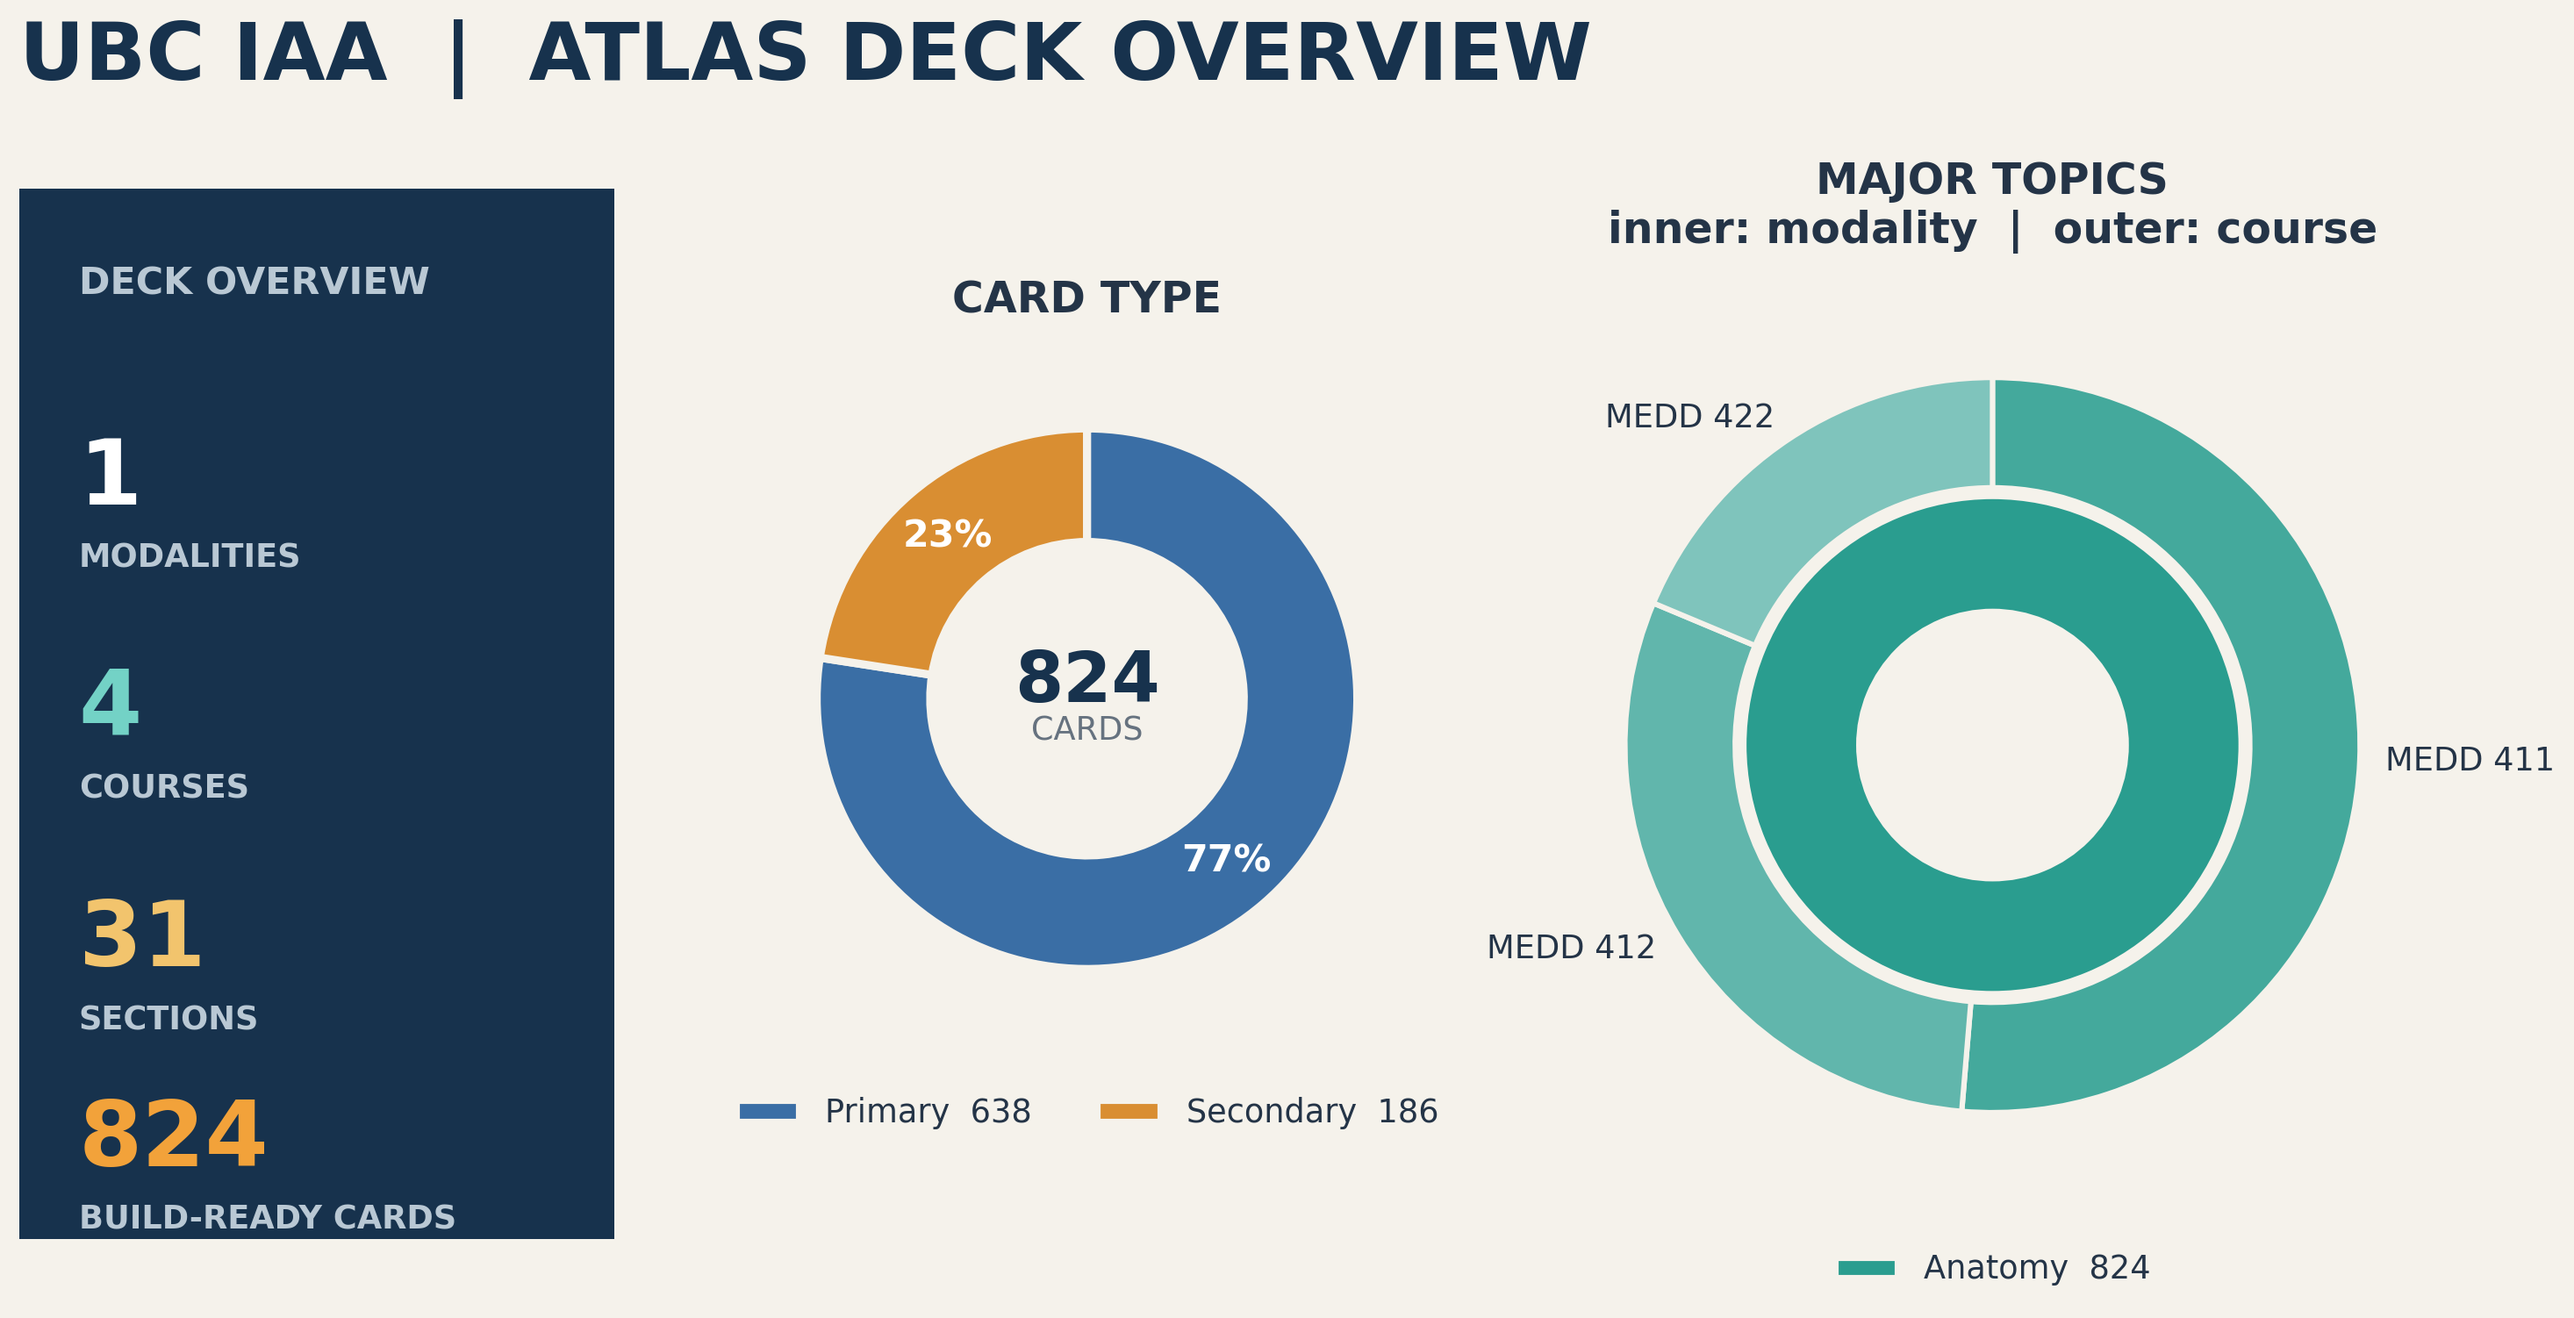
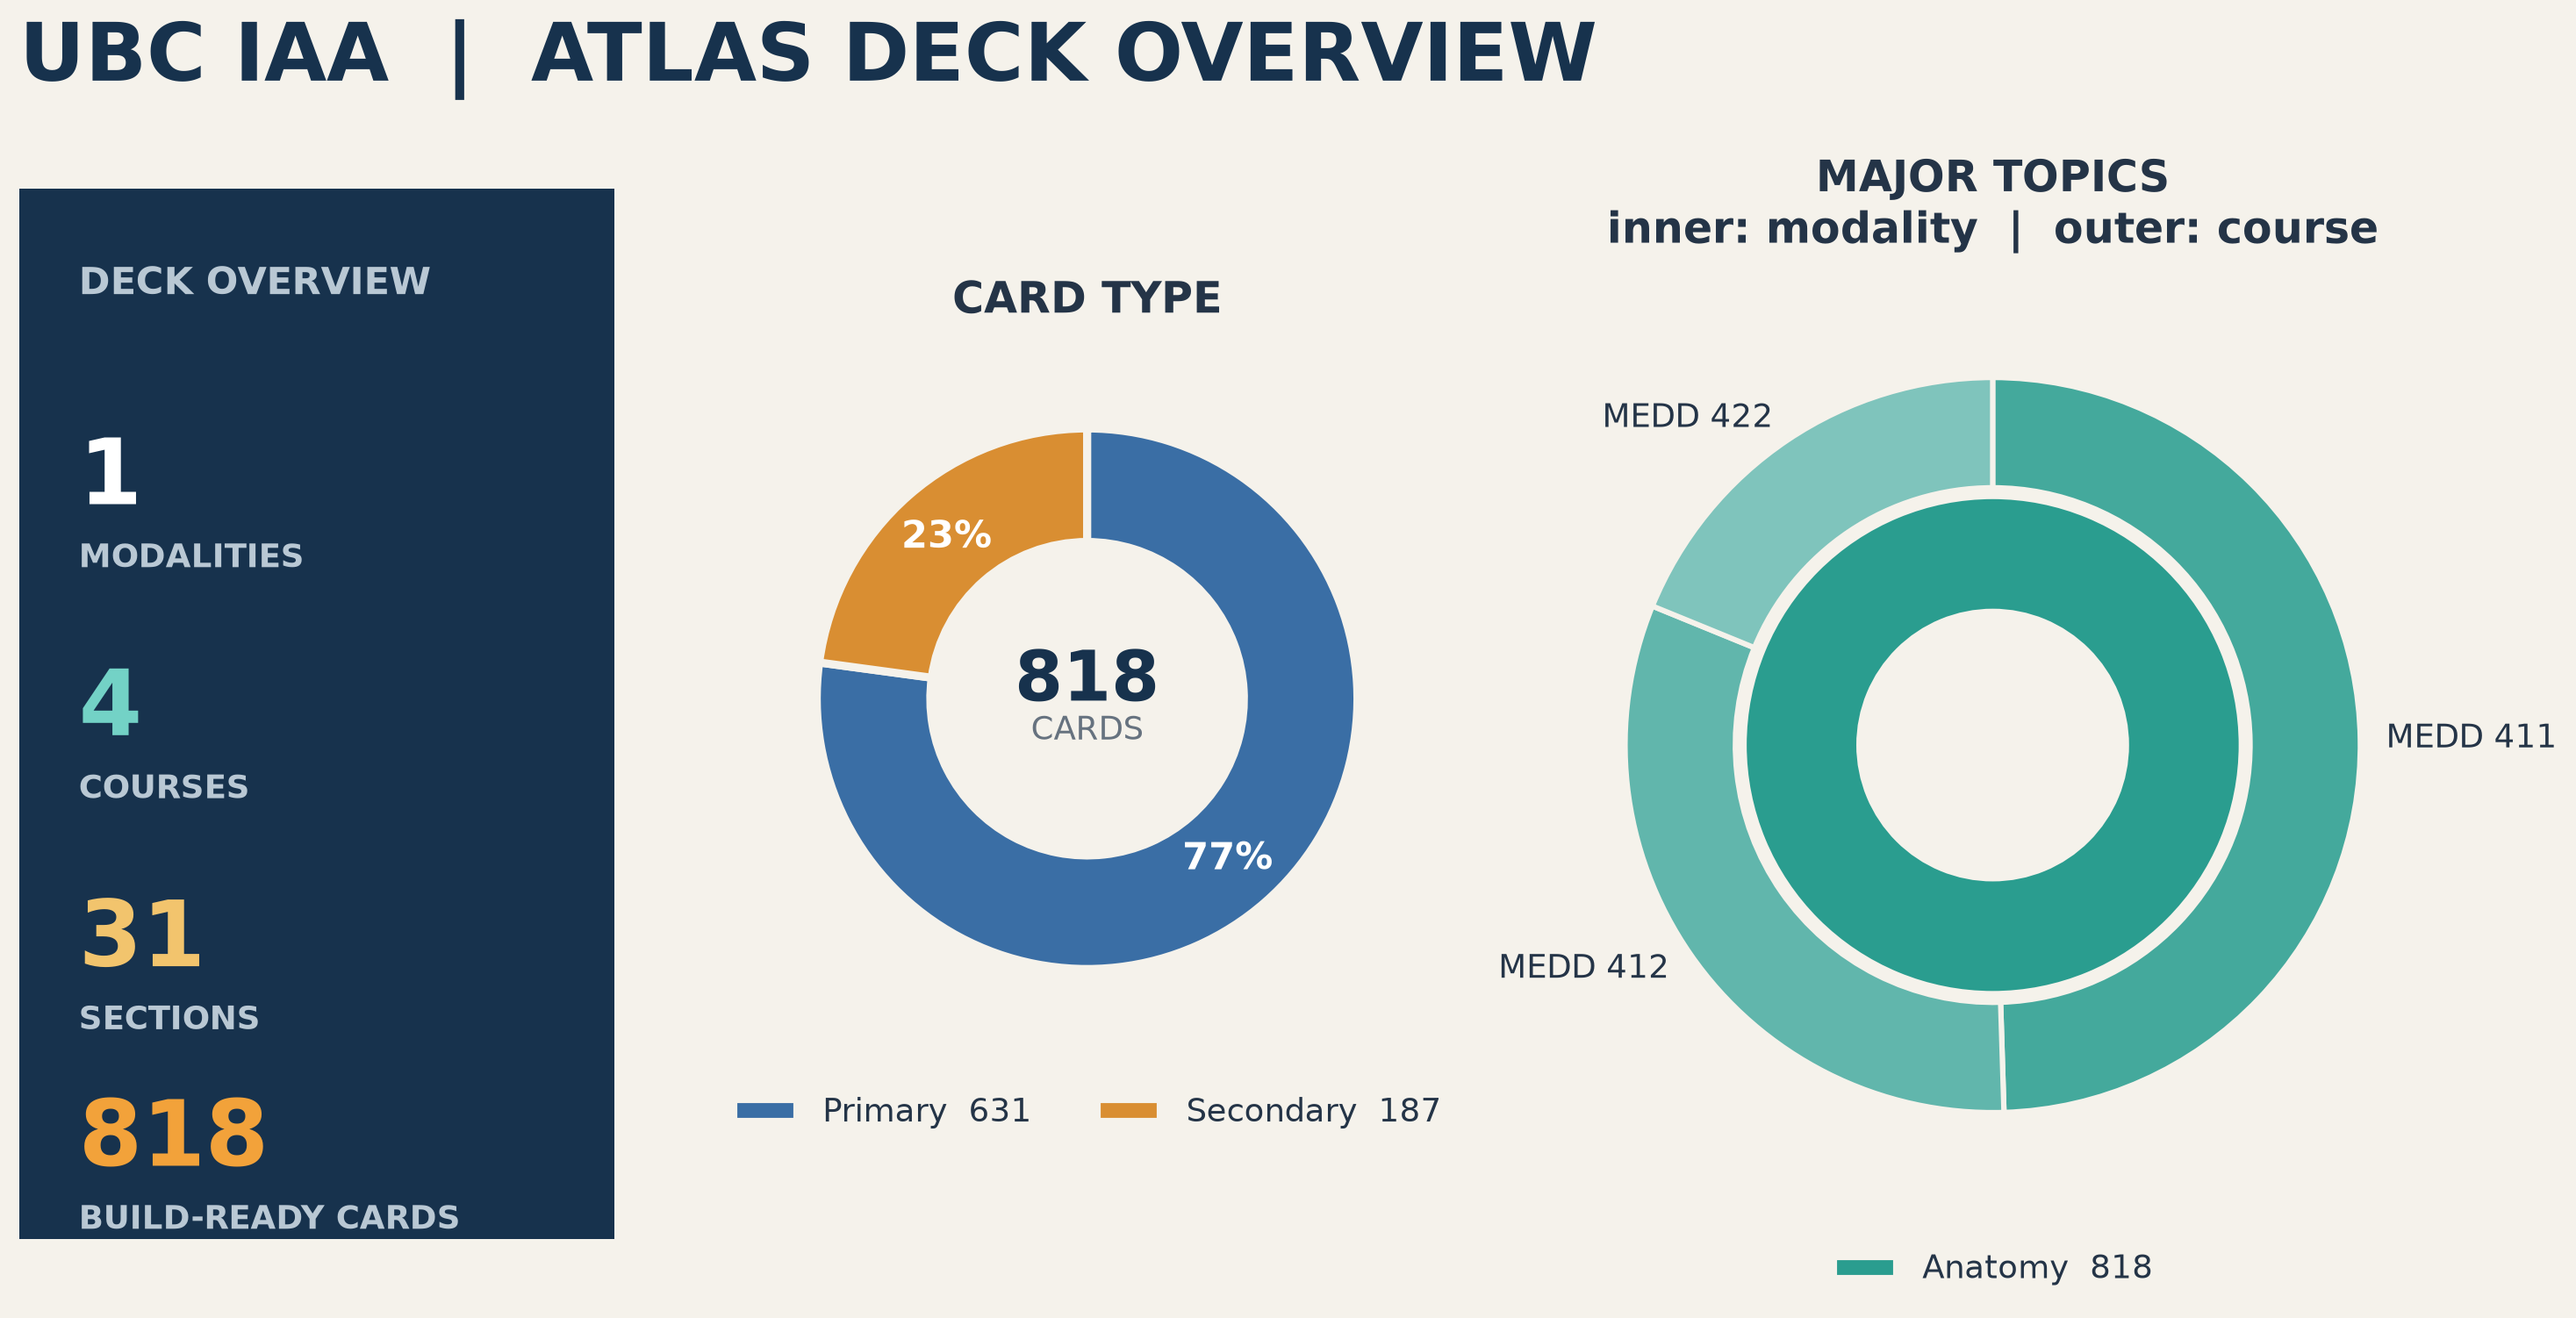
Support text-only cloze cards

diff --git a/build_anki_deck.py b/build_anki_deck.py
@@ -410,8 +410,6 @@ def build_package():
                 tag_text = value(row, headers, "tax", "tag")
 
                 reasons = []
-                if not file_name:
-                    reasons.append("no file name specified")
                 if not question:
                     reasons.append("no question specified")
                 if not answer:
@@ -461,13 +459,21 @@ def build_package():
                         )
                     )
 
-                if image_path not in optimized_images:
-                    optimized_path = optimize_image_for_anki(image_path, optimized_media_dir)
-                    optimized_images[image_path] = optimized_path
-                    original_media_bytes += image_path.stat().st_size
-                    optimized_media_bytes += optimized_path.stat().st_size
+                image_html = ""
+                if image_path is not None:
+                    if image_path not in optimized_images:
+                        optimized_path = optimize_image_for_anki(
+                            image_path, optimized_media_dir
+                        )
+                        optimized_images[image_path] = optimized_path
+                        original_media_bytes += image_path.stat().st_size
+                        optimized_media_bytes += optimized_path.stat().st_size
 
-                media_path = optimized_images[image_path]
+                    media_path = optimized_images[image_path]
+                    image_html = f'<img src="{html.escape(media_path.name)}">'
+                    media_files.add(str(media_path))
+                    modality_media.add(str(media_path))
+
                 group = card_group(tag_text)
                 deck_name = (
                     f"{ATLAS_ROOT}::{modality}::{course}::{lab_name(sheet)}::{group}"
@@ -478,7 +484,6 @@ def build_package():
                 )
                 modality_deck_names.add(deck_name)
 
-                image_html = f'<img src="{html.escape(media_path.name)}">'
                 attribution = value(row, headers, "attribution")
                 extras = row_extras(row, headers)
                 note = genanki.Note(
@@ -501,8 +506,6 @@ def build_package():
                     ),
                 )
                 deck.add_note(note)
-                media_files.add(str(media_path))
-                modality_media.add(str(media_path))
                 added += 1
 
         with ERROR_FILE.open("w", newline="") as file:

diff --git a/generate_project_status.py b/generate_project_status.py
@@ -62,7 +62,7 @@ for workbook in content_workbooks():
         answer = value(row, headers, "answer")
         key = image_key(file_name) if file_name else ""
         image = images.get(key) or variant_images.get(key) or lowercase_images.get(key)
-        if file_name and question and answer and image:
+        if question and answer and (not file_name or image):
             cards.append(
                 {
                     "modality": modality,

diff --git a/CONTRIBUTING.md b/CONTRIBUTING.md
@@ -55,13 +55,15 @@ The `SAMPLE` sheet is just an example. The deck builder ignores it.
 
 ## Adding a Card
 
-Each row in a lab sheet becomes one Anki card.
+Each row in a lab sheet becomes one Anki card. Images are optional. Leave the
+`file name` cell blank to create a text-only cloze card. If `file name` is
+filled, the matching image is required.
 
 Fill in these columns:
 
 | Column | What to put there |
 | --- | --------- |
-| `file name` | The image name, without `_P` and without `.jpg`/`.png`. |
+| `file name` | The image name, without `_P` and without `.jpg`/`.png`. Leave blank for a text-only cloze card. |
 | `Question` | The prompt, like `Identify` or `What passes through this opening?`, keep the questions similiar to what is asked on a bellringer. |
 | `Answer` | The answer students should recall. |
 | `Tag` | Usually `primary` or `secondary`. Separate multiple tags with a semicolon (`;`), for example `secondary; clinical`. |
@@ -231,14 +233,13 @@ between machines.
 
 Always open `error.csv` after building.
 
-If a row appears in `error.csv`, that row was skipped and did not make it into
-the Anki deck.
+Rows with errors were skipped. Rows reporting a fallback image are warnings;
+those cards were created with the named fallback image.
 
 Common fixes:
 
 | Error | Fix |
 | --- | --- |
-| `no file name specified` | Add the image name in the `file name` column. |
 | `no question specified` | Add a question. |
 | `no answer specified` | Add an answer. |
 | `image could not be found` | Check that the image file exists and ends in `_P`. |
@@ -249,11 +250,11 @@ Quick checklist:
 
 - [ ] Your rows are in the correct course workbook.
 - [ ] Your rows are in the correct lab sheet.
-- [ ] Every finished row has `file name`, `Question`, and `Answer`.
+- [ ] Every finished row has `Question` and `Answer`.
 - [ ] File names use underscores instead of spaces.
-- [ ] Every image file ends in `_P`.
+- [ ] Every image used by a card ends in `_P`.
 - [ ] Extra images for the same structure are named with `_1`, `_2`, etc.
-- [ ] The spreadsheet image name matches the image file name.
+- [ ] If `file name` is filled, it matches the image file name.
 - [ ] Primary ID cards are tagged `primary`.
 - [ ] Clinical or follow-up cards are tagged clearly.
 - [ ] Multiple tags, authors, or reviewers are separated with a semicolon (`;`).
